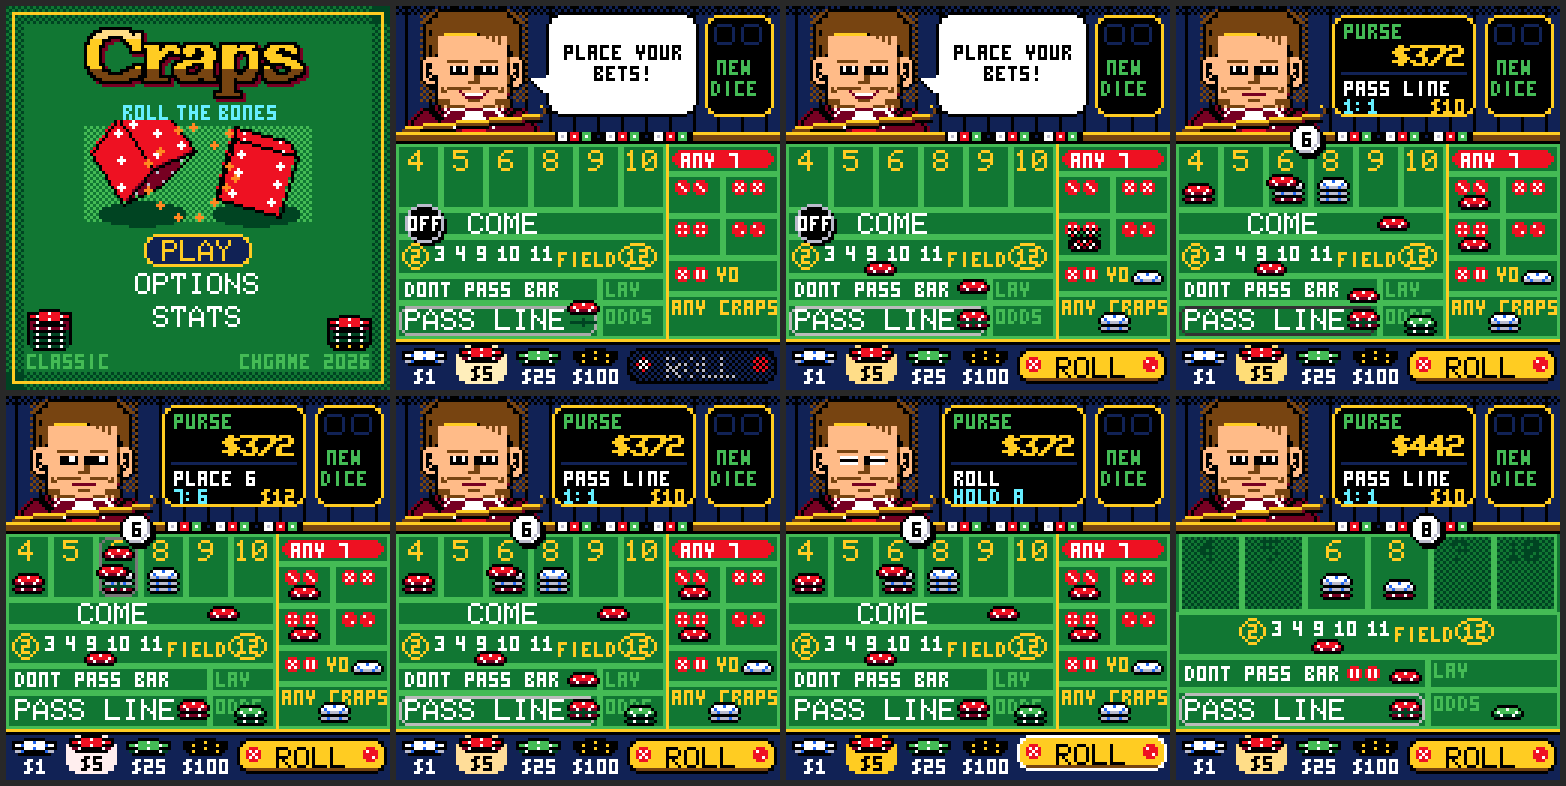
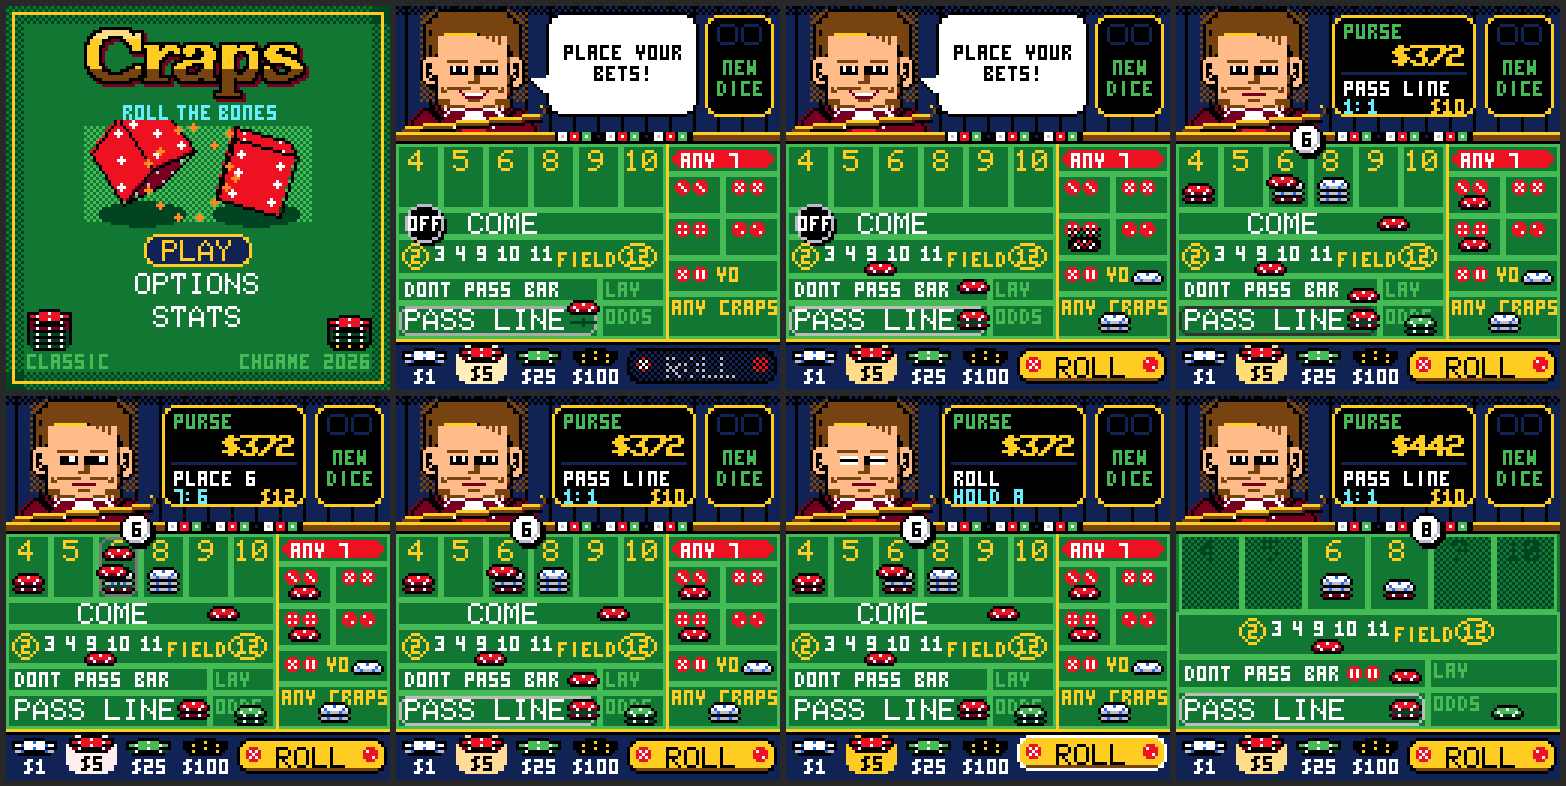
Roll history board: centre NEW DICE and the dice

diff --git a/src/render/Wall.cpp b/src/render/Wall.cpp
@@ -91,10 +91,10 @@ void board(const Craps &g, uint8_t skip) {
     int x = BOARD_X, y = BOARD_Y;
     panel(x, y, BOARD_W, BOARD_H, 3, INK, GOLD);
     if (!g.hist[skip]) {                                 // a new table: two dice, waiting
-        roundRect(x + 3, y + 3, 7, 7, 1, NAVY);
+        roundRect(x + 4, y + 3, 7, 7, 1, NAVY);
         roundRect(x + 12, y + 3, 7, 7, 1, NAVY);
-        text35(x + BOARD_W / 2 - 7, y + 15, "NEW", FELT_LT);
-        text35(x + BOARD_W / 2 - 9, y + 22, "DICE", FELT_LT);
+        text35(x + BOARD_W / 2 - text35Width("NEW") / 2, y + 15, "NEW", FELT_LT);
+        text35(x + BOARD_W / 2 - text35Width("DICE") / 2, y + 22, "DICE", FELT_LT);
         return;
     }
     for (uint8_t i = 0; i < 4 && i + skip < 6; i++) {
@@ -102,7 +102,7 @@ void board(const Craps &g, uint8_t skip) {
         if (!h) break;
         uint8_t a = h >> 4, b = h & 15;
         if (i == 0) {
-            art::dieFace(x + 3, y + 3, 7, a);
+            art::dieFace(x + 4, y + 3, 7, a);
             art::dieFace(x + 12, y + 3, 7, b);
             continue;
         }

diff --git a/README.md b/README.md
@@ -174,7 +174,7 @@ chip, the point). SAVE & QUIT, then CONTINUE, puts you back mid-hand.
     fewest pips.
   - The new pips go on as the dice hit the back wall, small, spinning and
     in a shower of sparks.
-- **Flash is the limit.** The release build is 50,100 B of 50,944, which
+- **Flash is the limit.** The release build is 50,136 B of 50,944, which
   leaves both save pages free. To fit:
   - the chips are span sprites recoloured by remap tables, and the pucks are
     span sprites too (round discs made by `tools/assets.py`);
